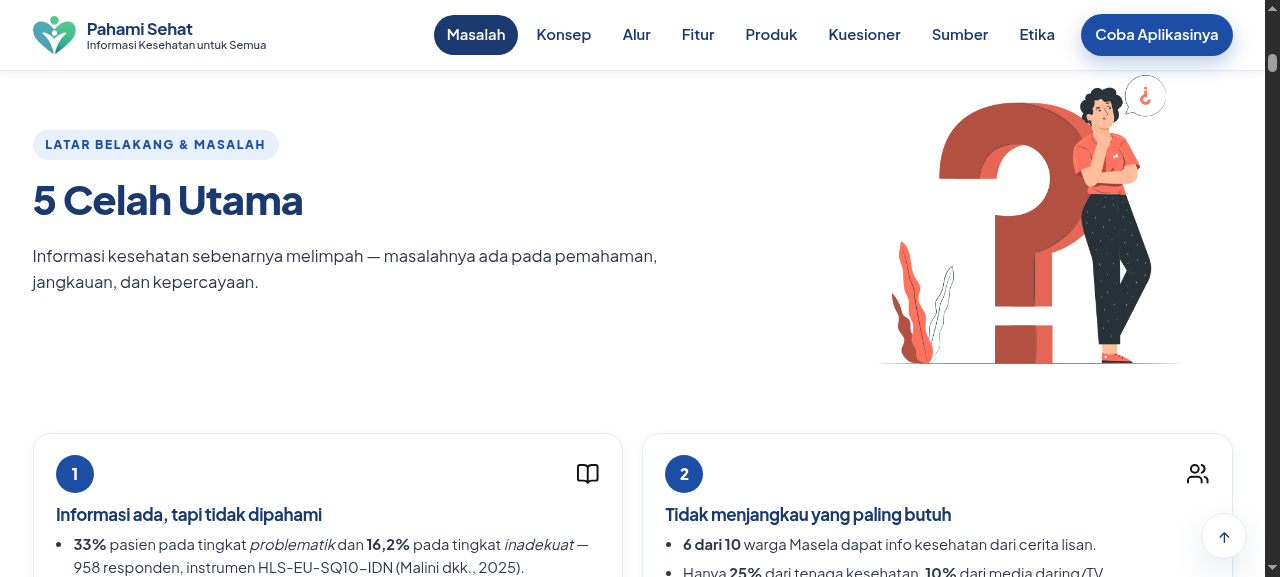
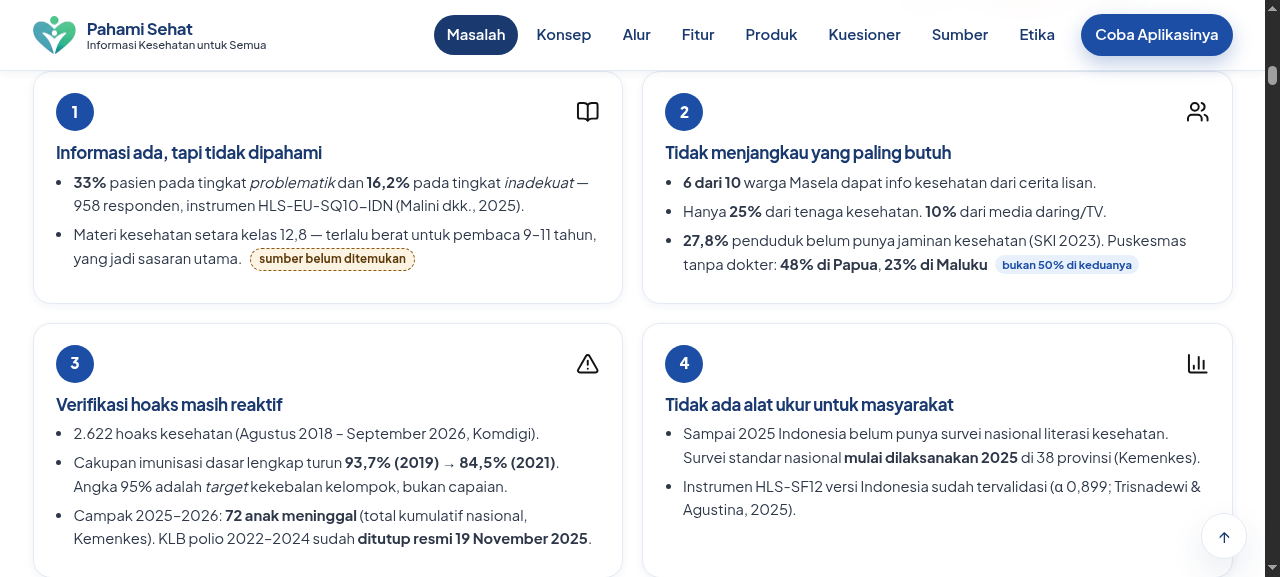
Ambil ulang seluruh tangkapan layar README (20 Okt 2026)
Gambar lama diambil 16 Okt, sebelum halaman login dihapus dan kartu privasi
di Pengaturan dibuang. Tiga di antaranya sudah tidak sesuai kode sekarang.

Yang diambil ulang dari aplikasi yang berjalan (npm run server):
- dashboard 6 halaman, 1280x577 (laptop)
- ponsel: Beranda + menu terbuka, 390x844 DPR 2 (780x1688 px)
- mode kontras tinggi, 1440x900 — dibuktikan aktif secara terukur:
  font dasar 16 -> 17,92 px, warna H1 #0f1e33 -> #000000
- halaman penjelasan 10 bagian + 2 versi ponsel

Tiga gambar terbukti identik karena tampilannya memang tidak berubah
(dashboard-6-pengaturan, prototype-1-hero, prototype-hp-1-hero).

Posisi gulir tiap bagian diukur lebih dulu (getBoundingClientRect) supaya
judul kartu tidak tertutup header 71 px dan isi kartu tidak terpotong batas
bawah. Beberapa posisi diperbaiki setelah diperiksa dengan mata: bagian
Masalah, Konsep, Alur, Fitur, Produk, Sumber, dan Etika.

Bagian Sumber sebelumnya hanya menangkap pengantar; sekarang menampilkan
dua kartu rujukan bernomor dengan penulis, tahun, jurnal, dan DOI.

README bagian Tampilan diperbarui: menyebut tanggal pengambilan ulang dan
ukuran tiap jenis tangkapan layar.

Diperiksa: 21 berkas, 21 dirujuk README, tidak ada gambar hilang.

diff --git a/README.md b/README.md
@@ -35,8 +35,13 @@ sampai dan tidak dipahami oleh yang paling membutuhkan.
 ## Tampilan
 
 Tangkapan layar di bawah diambil langsung dari aplikasi yang berjalan
-(`npm run server`) — bukan gambar desain. Berkasnya ada di
-[`docs/tangkapan-layar/`](docs/tangkapan-layar/) (21 berkas). Yang terlihat di bagian
+(`npm run server`) — bukan gambar desain. Seluruh **21 berkas** di
+[`docs/tangkapan-layar/`](docs/tangkapan-layar/) diambil ulang **20 Okt 2026**,
+sesudah halaman login dihapus dan kartu privasi di Pengaturan dibuang, jadi yang
+terlihat di README adalah tampilan yang benar-benar berlaku sekarang.
+
+Dashboard diambil pada **1280×577** (laptop), ponsel **390×844** dengan DPR 2
+(780×1688 piksel), dan mode kontras tinggi **1440×900**. Yang terlihat di bagian
 **Produk** adalah mockup perangkat, dan itu memang ilustrasi di dalam halaman —
 sisanya tampilan sungguhan.
 
